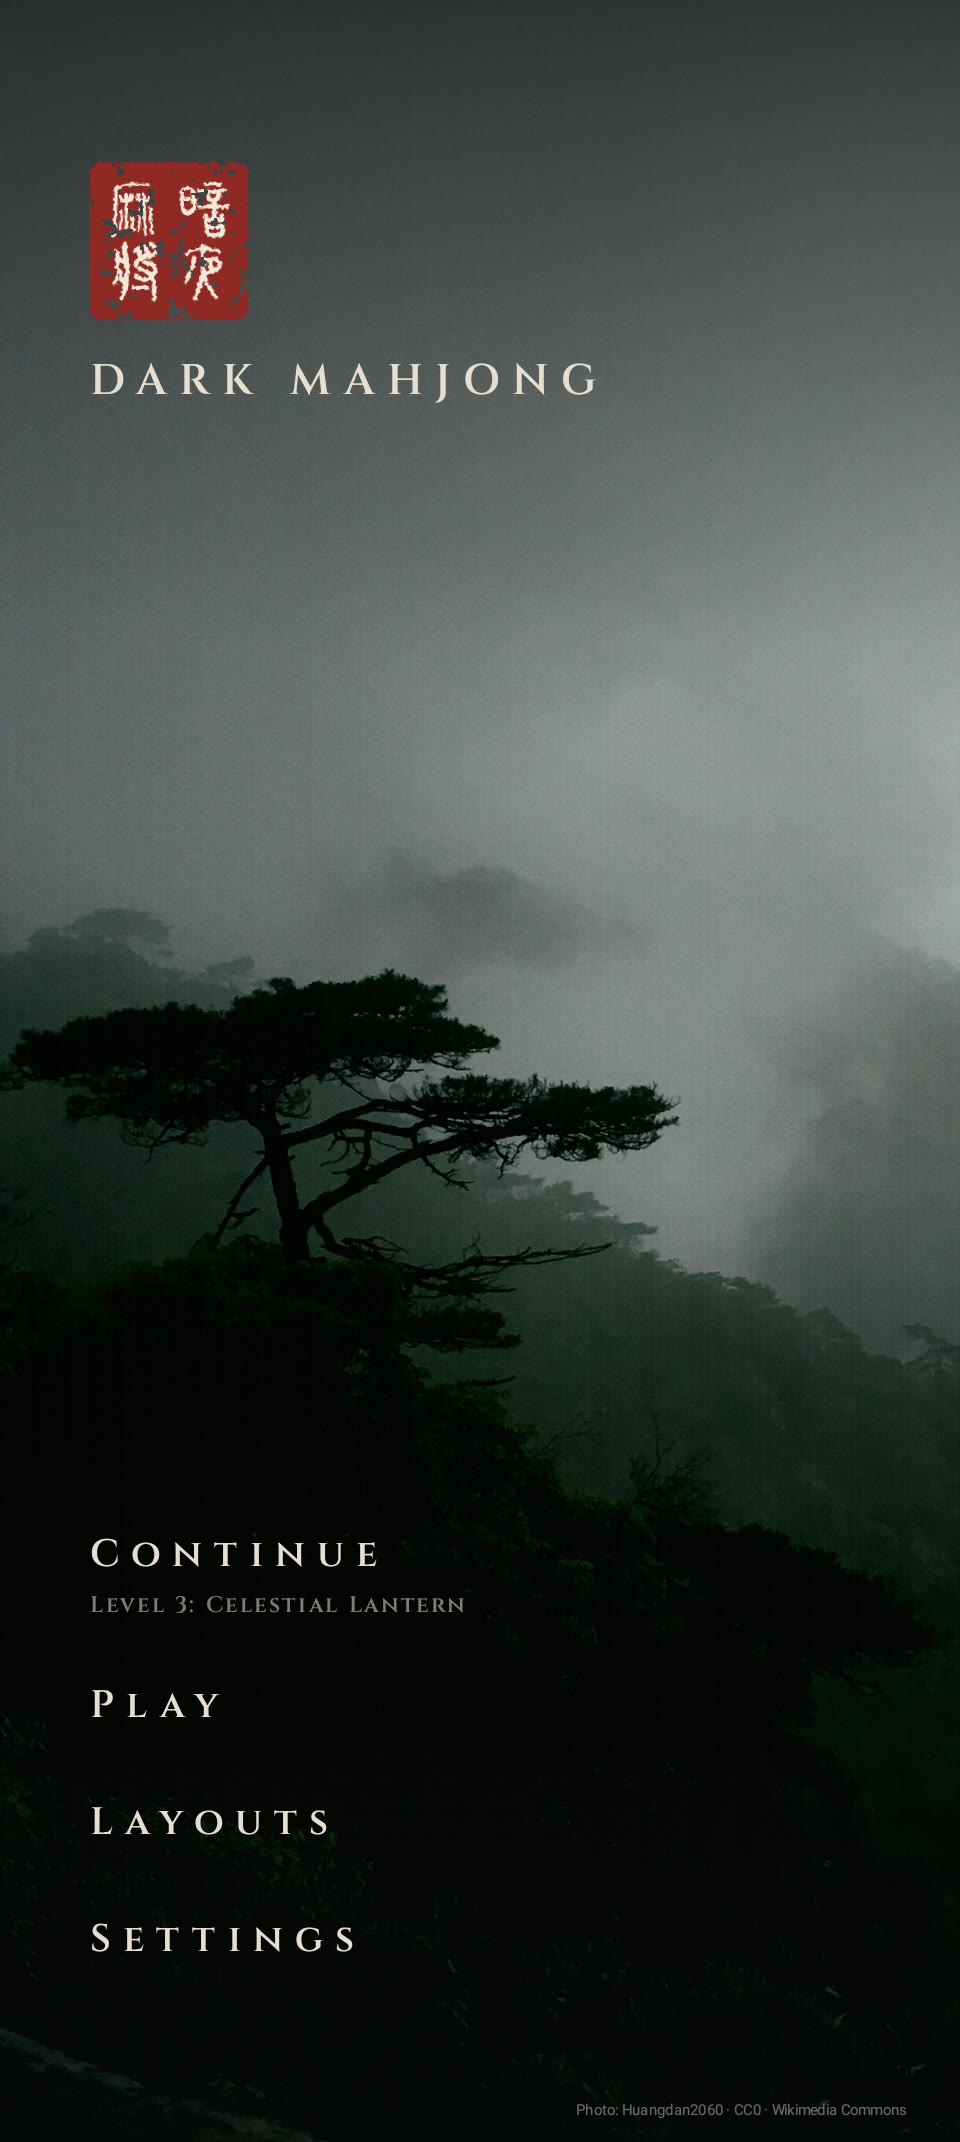
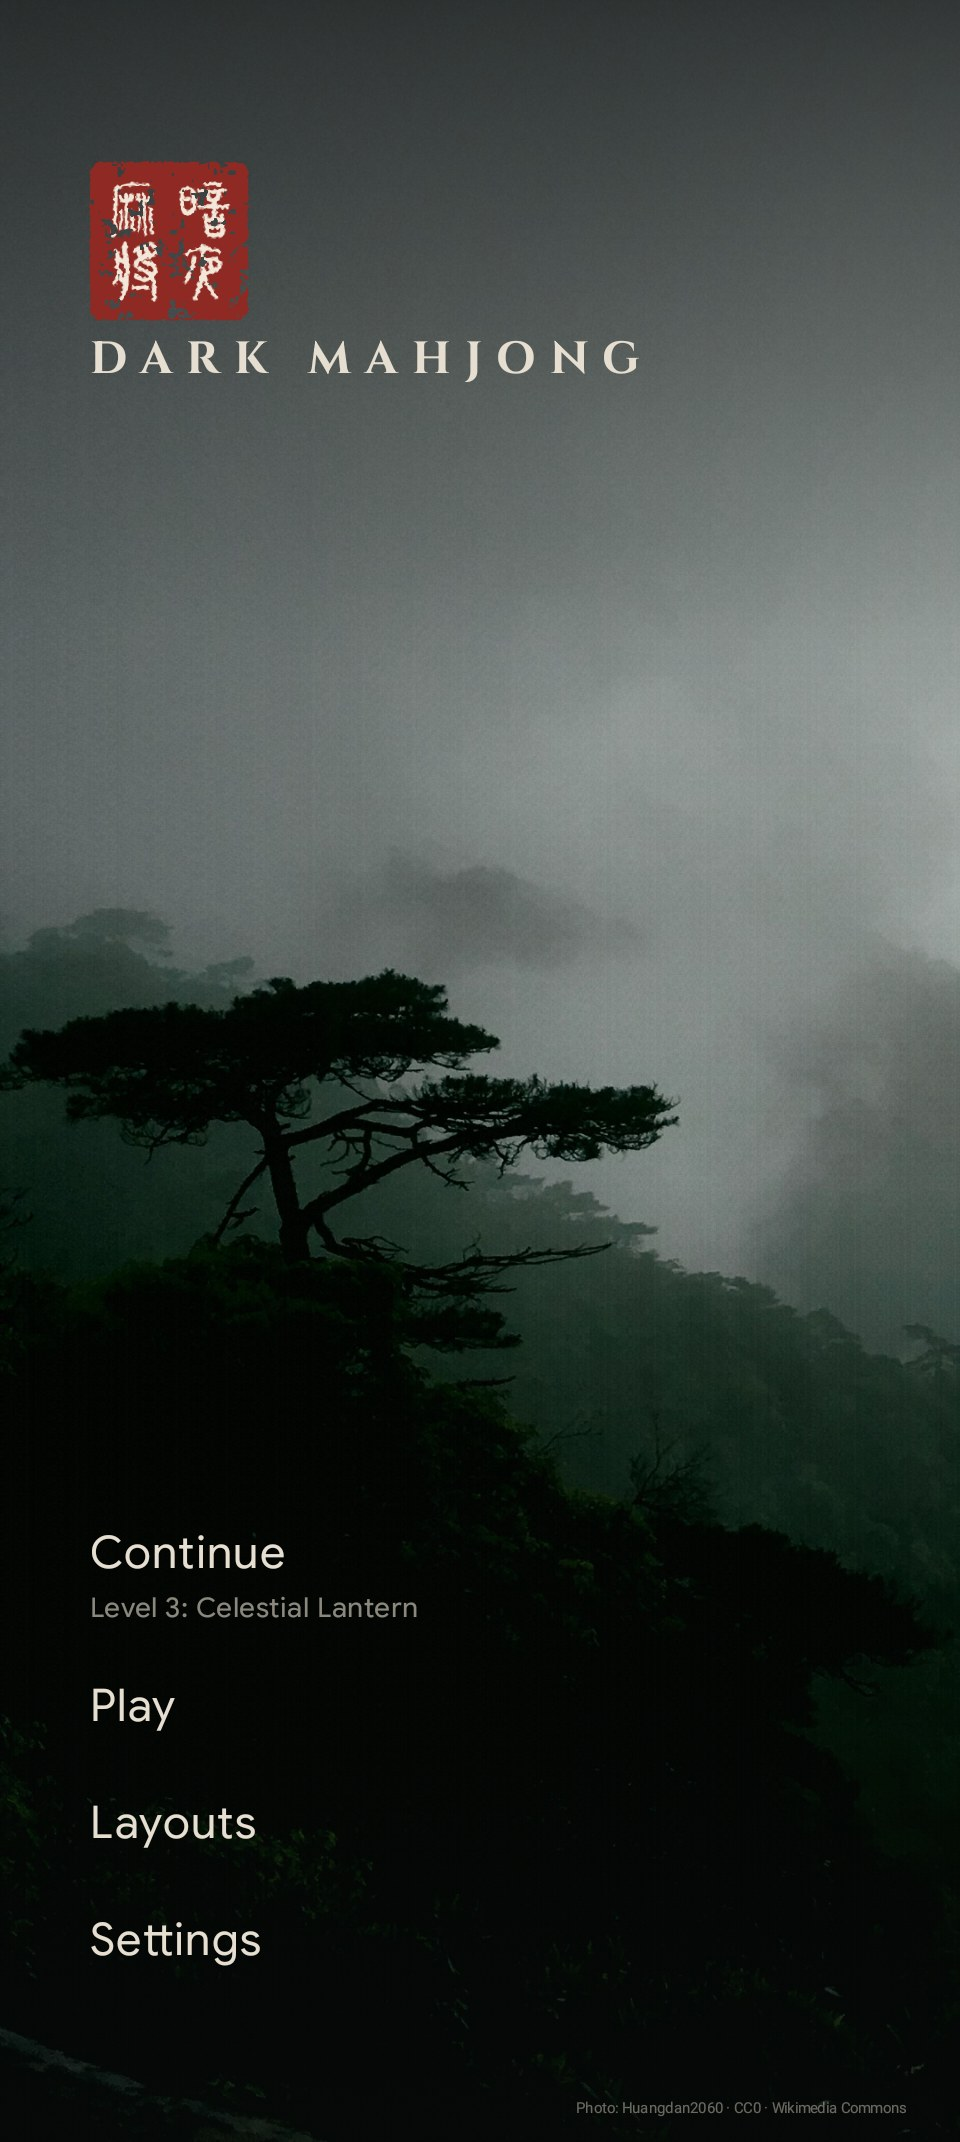
Title: Sans Flex menu by default, title tucked closer under the seal
The Google Sans Flex menu with the bold 20sp Cinzel title is now the
default title screen; the original all-Cinzel layout stays available as
TitleMenuStyle.SERIF. The visible gap between the seal and "DARK MAHJONG"
is halved, from about 20 dp to about 10 dp.

diff --git a/app/src/main/java/com/vortessence/mahjong/ui/screens/MainMenuScreen.kt b/app/src/main/java/com/vortessence/mahjong/ui/screens/MainMenuScreen.kt
@@ -62,7 +62,7 @@ private const val PHOTO_CREDIT = "Photo: Huangdan2060 · CC0 · Wikimedia Common
 @Composable
 fun MainMenuScreen(
     continueInfo: ContinueInfo? = null,
-    menuStyle: TitleMenuStyle = TitleMenuStyle.SERIF,
+    menuStyle: TitleMenuStyle = TitleMenuStyle.SANS,
     onContinue: () -> Unit = {},
     onPlayLevels: () -> Unit,
     onChooseConstellation: () -> Unit,
@@ -101,7 +101,9 @@ fun MainMenuScreen(
                 .padding(start = 40.dp, top = 72.dp),
         ) {
             NameSeal(size = 70.dp)
-            Spacer(Modifier.height(14.dp))
+            // The Sans layout sits the title closer under the seal: about 10 dp of visible gap
+            // rather than 20 (the rest is the font's own space above the capitals)
+            Spacer(Modifier.height(if (menuStyle == TitleMenuStyle.SANS) 4.dp else 14.dp))
             Text(
                 text = "DARK MAHJONG",
                 style = when (menuStyle) {
@@ -145,8 +147,8 @@ fun MainMenuScreen(
 }
 
 /**
- * How the title screen's menu is set: in the title's Cinzel capitals, or (the alternative under
- * consideration) in Google Sans Flex like the rest of the app, with a bolder, larger title.
+ * How the title screen's menu is set: in Google Sans Flex like the rest of the app, under a bold
+ * Cinzel title (the default since 2026-10-26), or in the title's Cinzel capitals (the original).
  */
 enum class TitleMenuStyle { SERIF, SANS }
 

diff --git a/app/src/test/java/com/vortessence/mahjong/screenshots/ScreenshotTour.kt b/app/src/test/java/com/vortessence/mahjong/screenshots/ScreenshotTour.kt
@@ -75,7 +75,7 @@ class ScreenshotTour {
     @Test fun tabletopThaiStraw() = tabletop(TableSurface.THAI_STRAW)
 
     @Composable
-    private fun TitleScreen(style: TitleMenuStyle = TitleMenuStyle.SERIF) = MainMenuScreen(
+    private fun TitleScreen(style: TitleMenuStyle = TitleMenuStyle.SANS) = MainMenuScreen(
         continueInfo = ContinueInfo("Level 3: Celestial Lantern", "40 tiles remaining"),
         menuStyle = style,
         onPlayLevels = {},
@@ -90,9 +90,9 @@ class ScreenshotTour {
     }
 
     @Test
-    fun titleSansMenu() {
-        compose.setContent { MahjongTheme { TitleScreen(TitleMenuStyle.SANS) } }
-        shoot("title_sans_menu")
+    fun titleSerifMenu() {
+        compose.setContent { MahjongTheme { TitleScreen(TitleMenuStyle.SERIF) } }
+        shoot("title_serif_menu")
     }
 
     private val someProgress = Progress(highestLevelReached = 4, completedConstellations = setOf("tutorial"))

diff --git a/docs/DESIGN.md b/docs/DESIGN.md
@@ -67,9 +67,9 @@ A family of **AGSL fragment shaders**, one palette per journey chapter: e.g. mid
 
 - **Photo:** full-bleed, darkened, misty Chinese mountains, cropped to a tall portrait frame with the lone pine in the middle: *Sanqing Mountain is surrounded by clouds and mists* (Huangdan2060, CC0, Wikimedia Commons). Scaled uniformly and never stretched, with subtle film grain (AGSL). A tiny courtesy credit sits bottom-right.
 - **Moving cloud: parked (2026-10-26).** A slowly drifting mist layer over the photo was tried. On the Pixel its reduced-resolution layer showed a hard-edged rectangle (part of the layer not refreshing), so it was removed for now. The last version is in commit `ef2c448` (`DriftingFog.kt`) if we revisit it; a fix would render it at full resolution or into a properly invalidated offscreen bitmap.
-- **Top, over the misty sky:** the **暗夜麻將** name seal (seal script, from Taiwan's CNS 11643 說文解字 font, subset; white on deep vermilion with carved-stone wear) and "DARK MAHJONG" in **Cinzel**, 19sp.
-- **Bottom, over the dark forest:** a plain text menu in Cinzel 17sp, left-aligned (Continue · Play · Layouts · Settings). Items brighten while pressed and give a soft click plus a light haptic.
-- **Alternative under consideration (2026-10-26):** the same menu in Google Sans Flex 20sp, with the title in bold Cinzel at 20sp (`TitleMenuStyle.SANS`). The Cinzel menu stays the default until one is chosen.
+- **Top, over the misty sky:** the **暗夜麻將** name seal (seal script, from Taiwan's CNS 11643 說文解字 font, subset; white on deep vermilion with carved-stone wear) and, close beneath it (about 10 dp of visible gap), "DARK MAHJONG" in bold **Cinzel**, 20sp.
+- **Bottom, over the dark forest:** a plain text menu in **Google Sans Flex** 20sp, left-aligned (Continue · Play · Layouts · Settings). Items brighten while pressed and give a soft click plus a light haptic.
+- **Chosen 2026-10-26** over the original all-Cinzel layout (menu in Cinzel 17sp, title 19sp semibold, 20 dp gap), which remains available as `TitleMenuStyle.SERIF`.
 
 ### The table: tilted camera, lamp light
 
